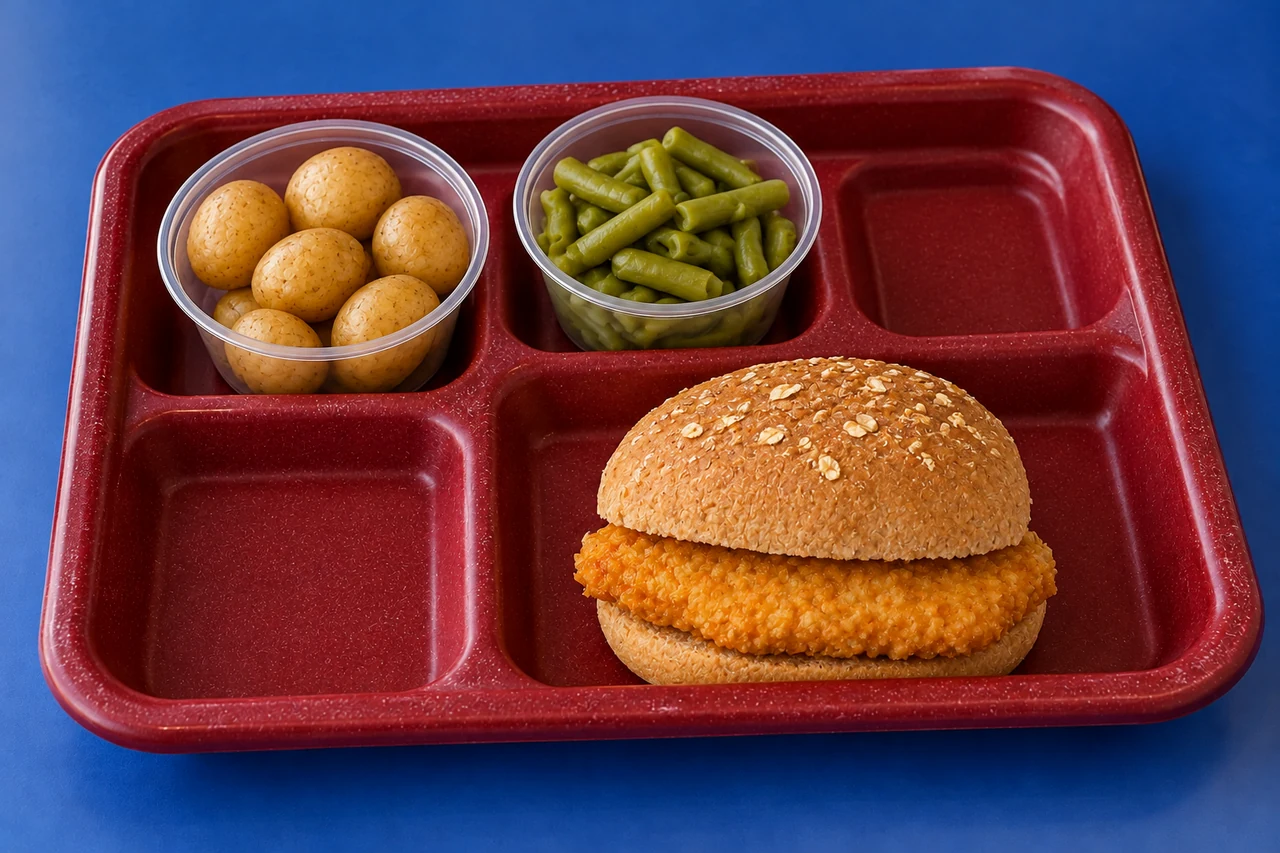
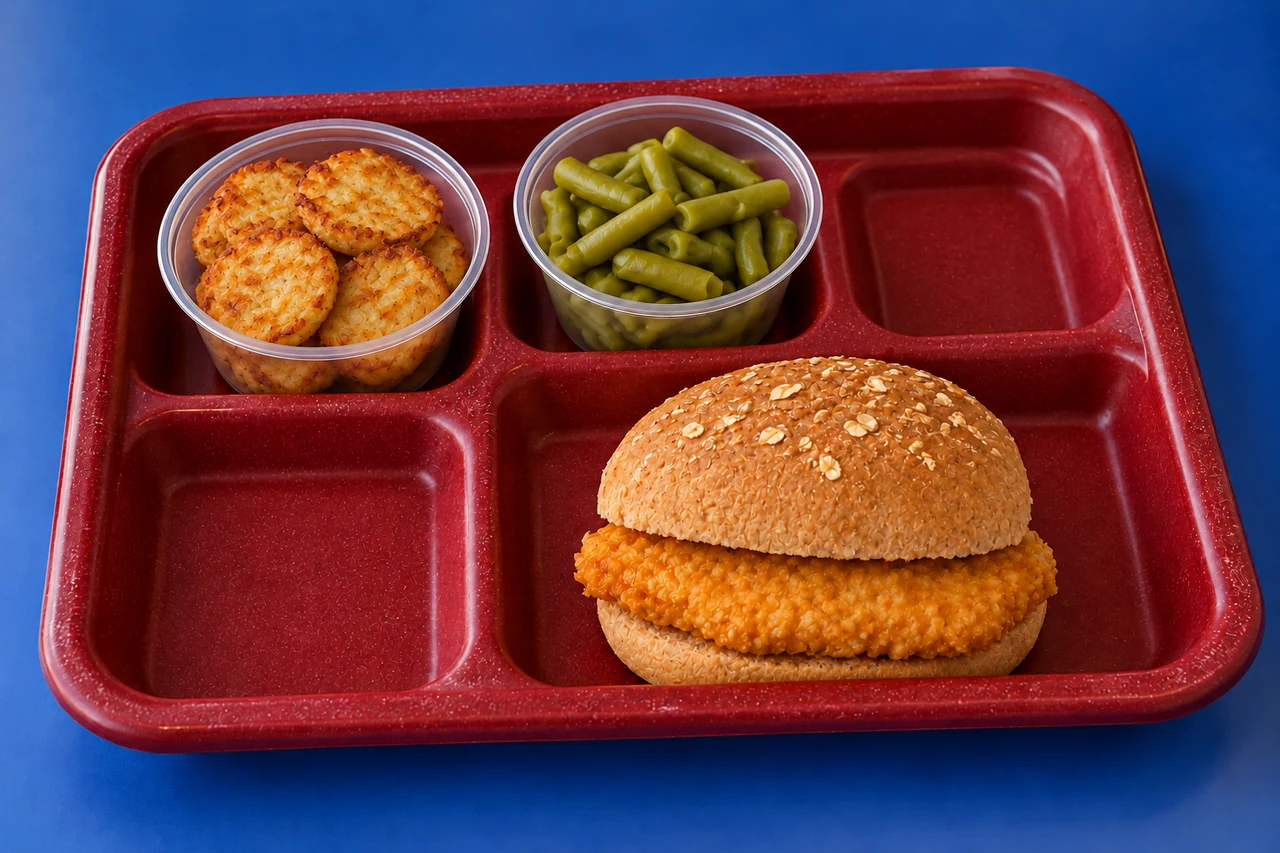
Correct Baby cake potato imagery without changing verified school menu text

diff --git a/docs/LUNCH_TRAY_STYLE.md b/docs/LUNCH_TRAY_STYLE.md
@@ -76,3 +76,9 @@ The existing hourly School Data Intake lane provides bounded missing-art recover
 after its primary teacher/homework work if the merge event was missed or stopped.
 It reuses the canonical artwork PR/owner, preserves schedules and all release
 gates, and never makes art a prerequisite for school-data publication.
+
+Food terminology review corrected Baby cake potatoes from whole baby potatoes
+to mini potato cakes. The [manufacturer description](https://mccainusafoodservice.com/products/details/mccain-babycakes-seasoned-mini-potato-pancakes-648-oz/)
+was used only to recognize the food term; it is not evidence of the school's
+supplier, recipe, brand, portion or allergens. School menu wording is unchanged.
+The prompt hint applies only when that specific menu item occurs.
